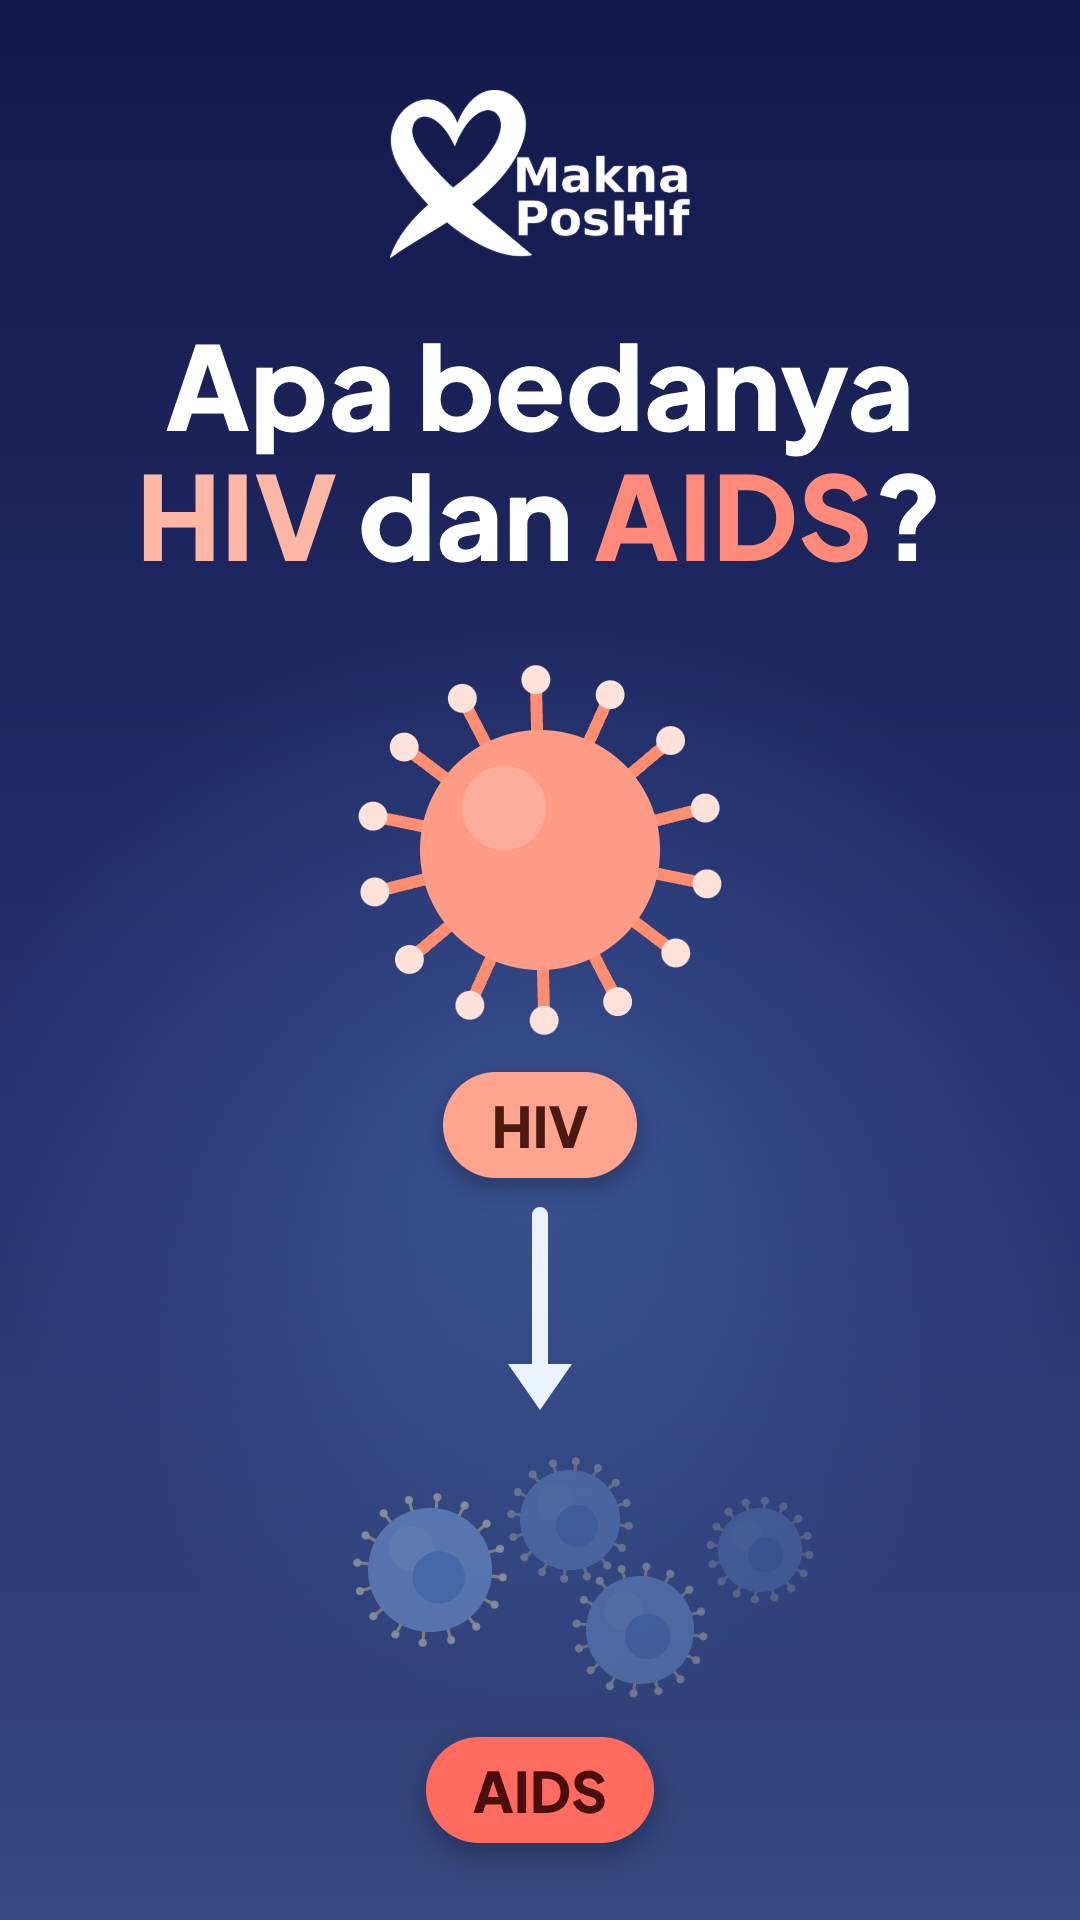
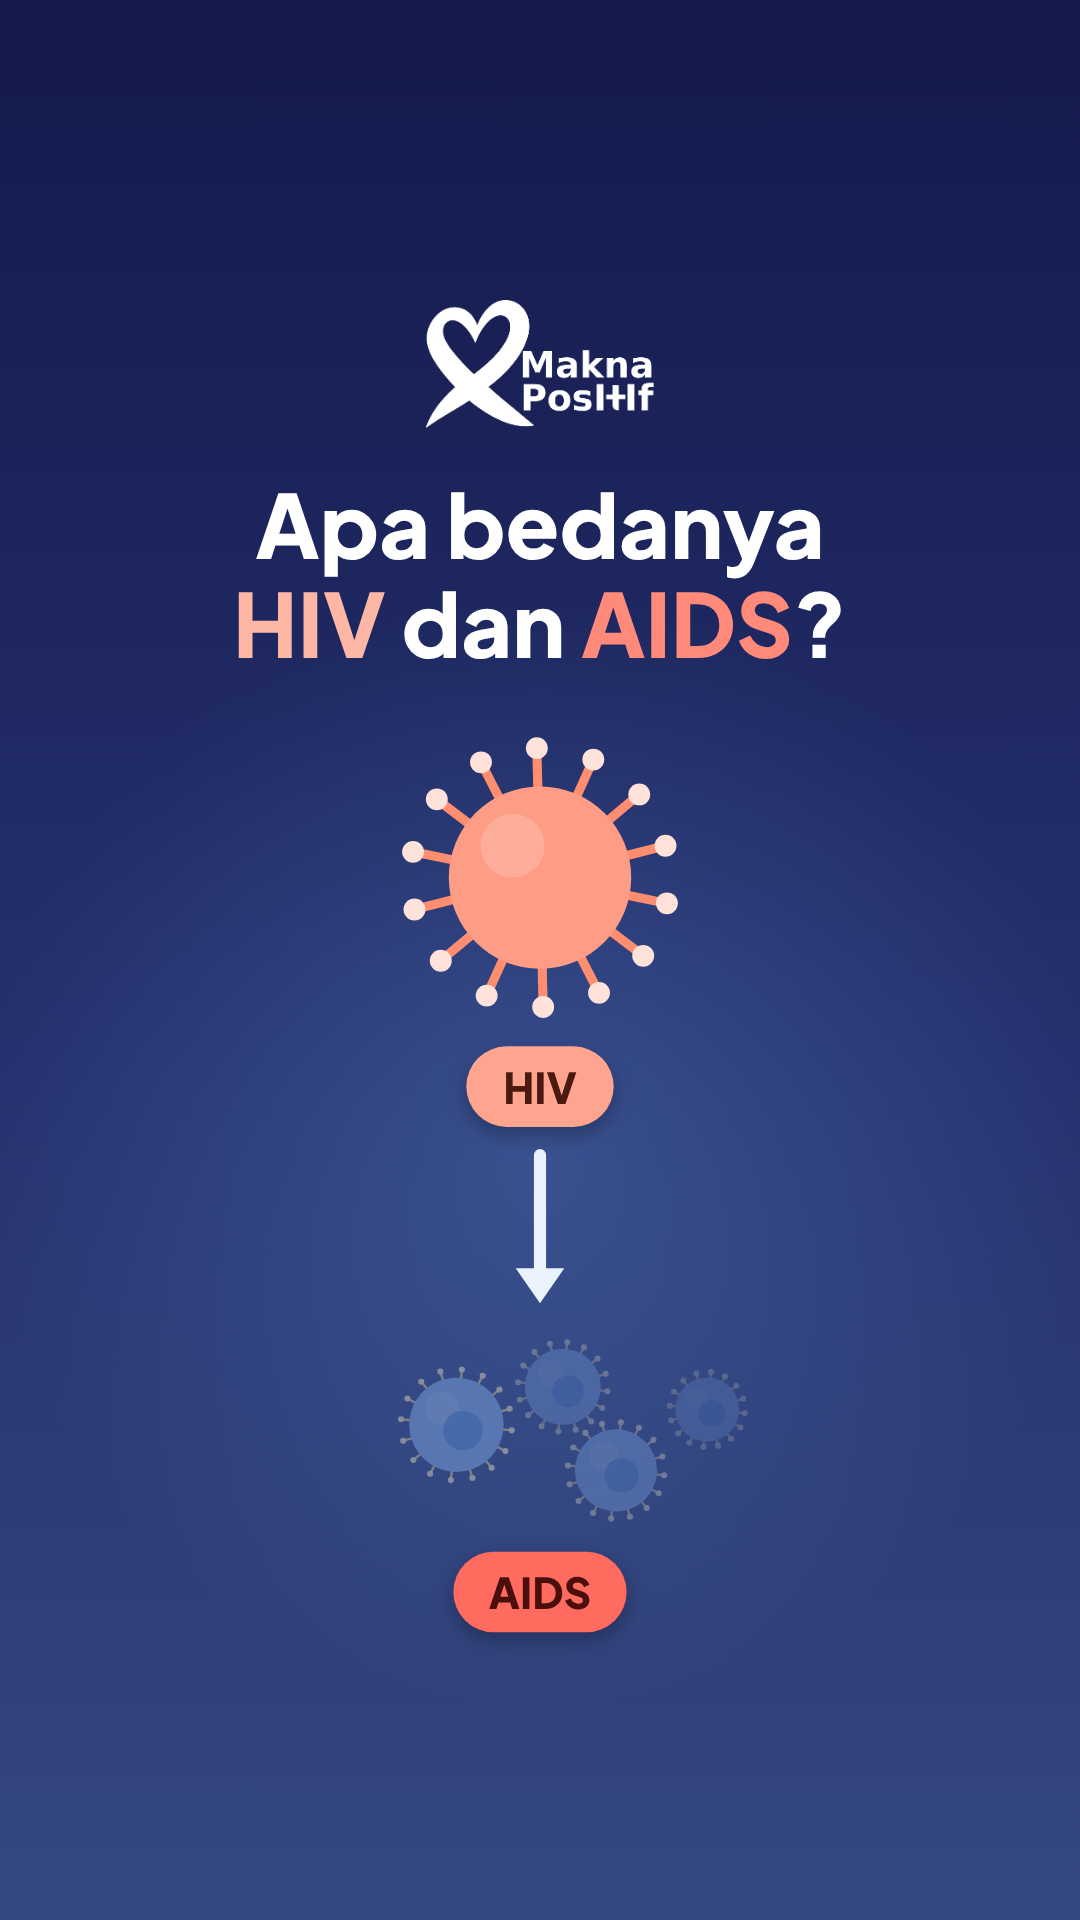
thumbnail: isi masuk zona aman 3:4 (profil IG/YT), render ulang semua thumbnail
Claude-Session: https://claude.ai/code/session_014bgpRHe51EWh912xCot3PB

Changed region(s): [[0.1222, 0.0312, 0.8861, 0.9688], [0.6722, 0.7812, 0.7028, 0.8125]]

diff --git a/src/thumb/Thumb.tsx b/src/thumb/Thumb.tsx
@@ -9,6 +9,13 @@ import { Capsule } from '../shared/library';
 export const THUMB_W = 1080;
 export const THUMB_H = 1920;
 
+// Zona aman profil: grid IG/YT memotong 9:16 jadi 3:4 di tengah (1080x1440 => y 240..1680). Semua konten (logo, judul,
+// ilustrasi, pill) diskalakan masuk ke y 300..1640 dengan margin >= 40 px dari tepi potong. Tata letak di bawah tetap
+// ditulis dalam koordinat kanvas penuh 1080x1920 (susunan sama), lalu ThumbFrame mengecilkannya ke zona aman.
+export const SAFE_S = 0.76;
+export const SAFE_DX = (THUMB_W * (1 - SAFE_S)) / 2; // tetap di tengah horizontal
+export const SAFE_DY = 300 - 90 * SAFE_S; // logo (y=90) jatuh di y=300; dasar ilustrasi (~1850) di ~1638
+
 // Tema latar = gradien dari video (pilih yang sama dengan warna dominan videonya).
 export const THEMES = {
   biru: ['#0A1F3D', '#123A60', '#17506F'] as [string, string, string], // biru laut (pembuka/sel)
@@ -93,9 +100,11 @@ export const ThumbFrame: React.FC<{ theme: keyof typeof THEMES; title: React.Rea
   return (
     <AbsoluteFill>
       <Bg g={THEMES[theme]} glowY={glowY} />
-      <Logo x={390} y={90} w={300} />
-      <div style={{ position: 'absolute', left: 0, width: THUMB_W, top: 320, textAlign: 'center', fontFamily: FONT, fontWeight: 800, fontSize: 116, lineHeight: 1.12, color: WHITE, whiteSpace: 'nowrap' }}>{title}</div>
-      {children}
+      <AbsoluteFill style={{ transformOrigin: '0 0', transform: `translate(${SAFE_DX}px, ${SAFE_DY}px) scale(${SAFE_S})` }}>
+        <Logo x={390} y={90} w={300} />
+        <div style={{ position: 'absolute', left: 0, width: THUMB_W, top: 320, textAlign: 'center', fontFamily: FONT, fontWeight: 800, fontSize: 116, lineHeight: 1.12, color: WHITE, whiteSpace: 'nowrap' }}>{title}</div>
+        {children}
+      </AbsoluteFill>
     </AbsoluteFill>
   );
 };

diff --git a/README.md b/README.md
@@ -169,6 +169,8 @@ Dipilih Arso (Nov 2026) dan berlaku untuk SEMUA episode. Kalau Arso bilang "buat
 2. **Teks = hanya judul episode**, persis seperti kolom `judul` di sheet. Tidak ada tagline, subjudul, atau kalimat tambahan karangan. Plus Jakarta Sans 800, ukuran 116, tengah, putih; kata kunci boleh diberi warna aksen seperti subtitle video (HIV koral muda `#FFB7A5`, AIDS `#FF8A7A`, CD4 biru `#8FBDF7`, ARV teal `#72E3D3`).
 3. **Ilustrasi di bawahnya** sesuai isi judul, memakai tokoh baku dari `src/shared/shapes.tsx` (virus, sel CD4, komandan), bersih dan lega. Boleh ada pill label kunci (terisi, tanpa garis tepi) yang kata-katanya diambil dari judul. Tanpa teks lain.
 
+**Zona aman profil (3:4)**: grid profil IG dan YouTube memotong thumbnail 9:16 menjadi 3:4 di tengah (1080x1440, yaitu y 240 sampai 1680 dari kanvas 1080x1920). Semua isi thumbnail (logo, judul, ilustrasi, pill) harus berada di dalam zona itu. `ThumbFrame` sudah mengecilkan seluruh isi (skala `SAFE_S` 0,76) ke y 300 sampai 1640, jadi koordinat di komposisi tetap ditulis dalam kanvas penuh seperti sebelumnya (logo x=390 y=90 lebar 300, judul ukuran 116, dst.) dan hasilnya otomatis masuk zona aman. Susunan, urutan, dan gaya tidak berubah. Cek hasil dengan memotong gambar ke `crop=1080:1440:0:240`; tidak boleh ada yang terpotong. Latar gradien tetap penuh 9:16.
+
 **Latar berganti per episode**: gradien vertikal 3 warna, dipilih sesuai warna tema video episode itu (`THEMES` di `src/thumb/Thumb.tsx`: `biru`, `indigo`, `teal`, `biruLembut`; tambah tema baru kalau videonya memakai gradien lain). Tanpa bokeh, tanpa garis tepi, ada glow radial lembut.
 
 **Cara membuat thumbnail episode baru**: di `src/thumb/Thumb.tsx` buat komponen baru yang membungkus `<ThumbFrame theme="..." title={...}>` dengan ilustrasi di dalamnya (contoh: `ThumbHivAids`), daftarkan di `src/Root.tsx` (`<Composition id="Thumb..." width={THUMB_W} height={THUMB_H} durationInFrames={1} />`), lalu render: `npx remotion still src/index.ts <IdKomposisi> docs/thumbnail/<judul-slug>.png`. Simpan hasil final per episode di `docs/thumbnail/` dan tambahkan ke daftar di bawah. Jangan menyimpan alternatif yang tidak terpilih.
